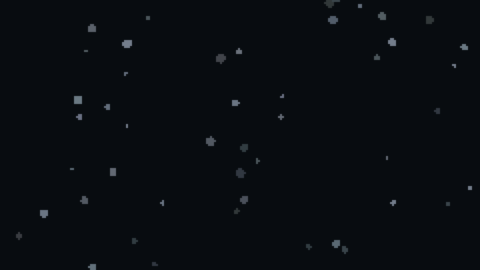
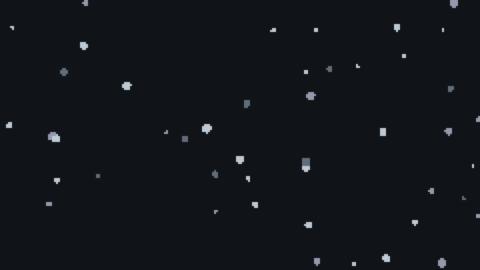
Adopt the Rill family's color mixing rule for the visual
Fainter particles now mix toward the ground colour instead of toward
black (four fixed shade steps, not a continuous ramp) -- the same
drawing language as Rill and Rill Drums, just kept on a dark ground
instead of their daylight one since it suits rain at night. One
palette now has a genuinely blue ground rather than near-black.

Also fixed the same small-seed RNG correlation bug in weather::Scene
that field::Engine had: every low seed was picking the same initial
palette.

diff --git a/src/Weather.h b/src/Weather.h
@@ -12,6 +12,15 @@
 // read as falling rain that's alive. A bar boundary briefly brightens a
 // particle near the top, a visible tell for the rhythm that's otherwise only
 // in the audio's filter sweep. Shared by firmware and the host preview tool.
+//
+// Color follows the same drawing language as Rill and Rill Drums: flat
+// opaque ink, no additive glow, and a fainter particle is paler (mixed
+// toward the ground colour) rather than darker (mixed toward black) --
+// mixing toward black is what made early passes on those projects read as
+// a neon screensaver. This project keeps a dark ground rather than their
+// daylight one (it suits rain at night), including one palette with a
+// genuinely blue ground rather than near-black, but the mixing rule and the
+// four fixed shade steps (not a continuous ramp) carry over unchanged.
 namespace weather {
 class Scene {
  public:
@@ -20,30 +29,41 @@ class Scene {
 
  private:
   struct Color { float r, g, b; };
+  struct Palette { Color ground, ink; };
   struct Particle { float x, y, speed, size, phase; };
   std::array<uint16_t, width * height> frame{};
   uint32_t rng;
   unsigned palette = 0, count = 0;
   float phase = 0, breath = 0;
-  Color ink{};
-  uint16_t background = 0;
+  Color ground{}, ink{};
+  uint16_t backgroundPacked = 0;
   std::array<Particle, particleCount> particles{};
 
   unsigned random() { rng ^= rng << 13; rng ^= rng >> 17; rng ^= rng << 5; return rng; }
   float unit() { return float(random() >> 8) / 16777216.0f; }
-  static uint16_t color(Color c, float shade = 1) {
-    unsigned r = unsigned(std::max(0.0f, std::min(255.0f, c.r * shade)));
-    unsigned g = unsigned(std::max(0.0f, std::min(255.0f, c.g * shade)));
-    unsigned b = unsigned(std::max(0.0f, std::min(255.0f, c.b * shade)));
+  static uint16_t pack(Color c) {
+    unsigned r = unsigned(std::max(0.0f, std::min(255.0f, c.r)));
+    unsigned g = unsigned(std::max(0.0f, std::min(255.0f, c.g)));
+    unsigned b = unsigned(std::max(0.0f, std::min(255.0f, c.b)));
     return uint16_t(((r >> 3) << 11) | ((g >> 2) << 5) | (b >> 3));
   }
-  void dot(float cx, float cy, float r, Color c, float shade) {
+  // A fainter particle mixes toward the ground colour, not toward black,
+  // and lands on one of four fixed steps rather than a continuous ramp.
+  uint16_t mix(float shade) const {
+    static const float steps[4] = {0.25f, 0.5f, 0.75f, 1.0f};
+    float s = steps[std::min<unsigned>(3, unsigned(std::max(0.0f, shade) * 4))];
+    return pack({ground.r + (ink.r - ground.r) * s,
+                 ground.g + (ink.g - ground.g) * s,
+                 ground.b + (ink.b - ground.b) * s});
+  }
+  void dot(float cx, float cy, float r, float shade) {
     int top = std::max(0, int(cy - r)), bottom = std::min(int(height) - 1, int(cy + r));
     int left = std::max(0, int(cx - r)), right = std::min(int(width) - 1, int(cx + r));
+    uint16_t c = mix(shade);
     for (int y = top; y <= bottom; ++y)
       for (int x = left; x <= right; ++x) {
         float dx = x - cx, dy = y - cy;
-        if (dx * dx + dy * dy <= r * r) frame[unsigned(y) * width + unsigned(x)] = color(c, shade);
+        if (dx * dx + dy * dy <= r * r) frame[unsigned(y) * width + unsigned(x)] = c;
       }
   }
   void resetParticles() {
@@ -56,20 +76,29 @@ class Scene {
   }
 
  public:
-  explicit Scene(uint32_t value = 23) : rng(value ? value : 1) { regenerate(); }
-  void seed(uint32_t value) { rng = value ? value : 1; count = 0; regenerate(); }
+  explicit Scene(uint32_t value = 23) { seed(value); }
+  void seed(uint32_t value) {
+    rng = value ? value : 1;
+    // xorshift32 correlates its first output with a small seed value; a few
+    // throwaway iterations avoid every low seed picking the same initial
+    // palette (same fix as field::Engine::seed(), same underlying bug).
+    for (unsigned i = 0; i < 6; ++i) random();
+    count = 0;
+    regenerate();
+  }
   void regenerate() {
     palette = count ? (palette + 1 + random() % 2) % 3 : random() % 3;
     ++count; phase = unit() * 6.283185f; breath = 0;
-    static const Color palettes[3] = {
-      {160, 176, 196}, // grey-blue
-      {120, 150, 190}, // deeper blue
-      {180, 190, 200}, // pale silver
+    static const Palette palettes[3] = {
+      {{16, 20, 30}, {190, 200, 215}},  // charcoal-blue ground, pale grey-blue ink
+      {{18, 26, 64}, {205, 218, 240}},  // genuinely blue ground, ice-blue ink
+      {{15, 15, 19}, {212, 212, 217}},  // near-neutral dark ground, pale silver ink
     };
-    ink = palettes[palette];
-    background = color({10, 12, 18});
+    ground = palettes[palette].ground;
+    ink = palettes[palette].ink;
+    backgroundPacked = pack(ground);
     resetParticles();
-    frame.fill(background);
+    frame.fill(backgroundPacked);
   }
   unsigned generation() const { return count; }
   const uint16_t* pixels() const { return frame.data(); }
@@ -77,14 +106,14 @@ class Scene {
     dt = std::max(0.0f, std::min(0.1f, dt));
     phase += dt; if (phase > 628.3185f) phase -= 628.3185f;
     breath += (float(beat) - breath) * std::min(1.0f, dt * 3);
-    frame.fill(background);
+    frame.fill(backgroundPacked);
     for (auto& p : particles) {
       p.y += p.speed * dt * 60;
       if (p.y > height + 2) { p.y = -2; p.x = unit() * width; }
       float shimmer = 0.5f + 0.5f * std::sin(phase * 1.3f + p.phase);
-      dot(p.x, p.y, p.size, ink, 0.32f + shimmer * 0.40f);
+      dot(p.x, p.y, p.size, 0.4f + shimmer * 0.6f);
     }
-    if (beat) dot(unit() * width, height * 0.12f, 3, ink, 0.7f + breath * 0.3f);
+    if (beat) dot(unit() * width, height * 0.12f, 3, 0.75f + breath * 0.25f);
   }
 };
 }

diff --git a/README.md b/README.md
@@ -31,9 +31,11 @@ Playback state is not saved across restarts.
 
 The visual is one continuous field of falling particles, not a catalog of families like Rill's or Rill Drums' -- this project's focus is the audio, and the screen only needs to read as rain that's alive. A bar boundary briefly brightens a particle near the top, a visible tell for the rhythm that's otherwise only in the audio's filter sweep. Shake cycles the palette.
 
+Color follows the same drawing language as Rill and Rill Drums -- flat opaque ink, a fainter particle mixed toward the ground colour rather than toward black -- but with a dark ground rather than their daylight one, since it suits rain at night. One palette keeps a genuinely blue ground rather than near-black.
+
 | | | |
 | --- | --- | --- |
-| ![Falling rain visual, grey-blue palette](docs/images/rain-visual-1.png) | ![Falling rain visual, deeper blue palette](docs/images/rain-visual-2.png) | ![Falling rain visual, pale silver palette](docs/images/rain-visual-3.png) |
+| ![Falling rain visual, charcoal-blue ground](docs/images/rain-visual-1.png) | ![Falling rain visual, blue ground](docs/images/rain-visual-2.png) | ![Falling rain visual, near-neutral dark ground](docs/images/rain-visual-3.png) |
 
 These are host-rendered previews (`tools/visual_preview.cpp`), pixel-identical to what the firmware pushes to the real screen, not photos of the device -- the animation and bar-tick highlight don't show in a still frame.
 
